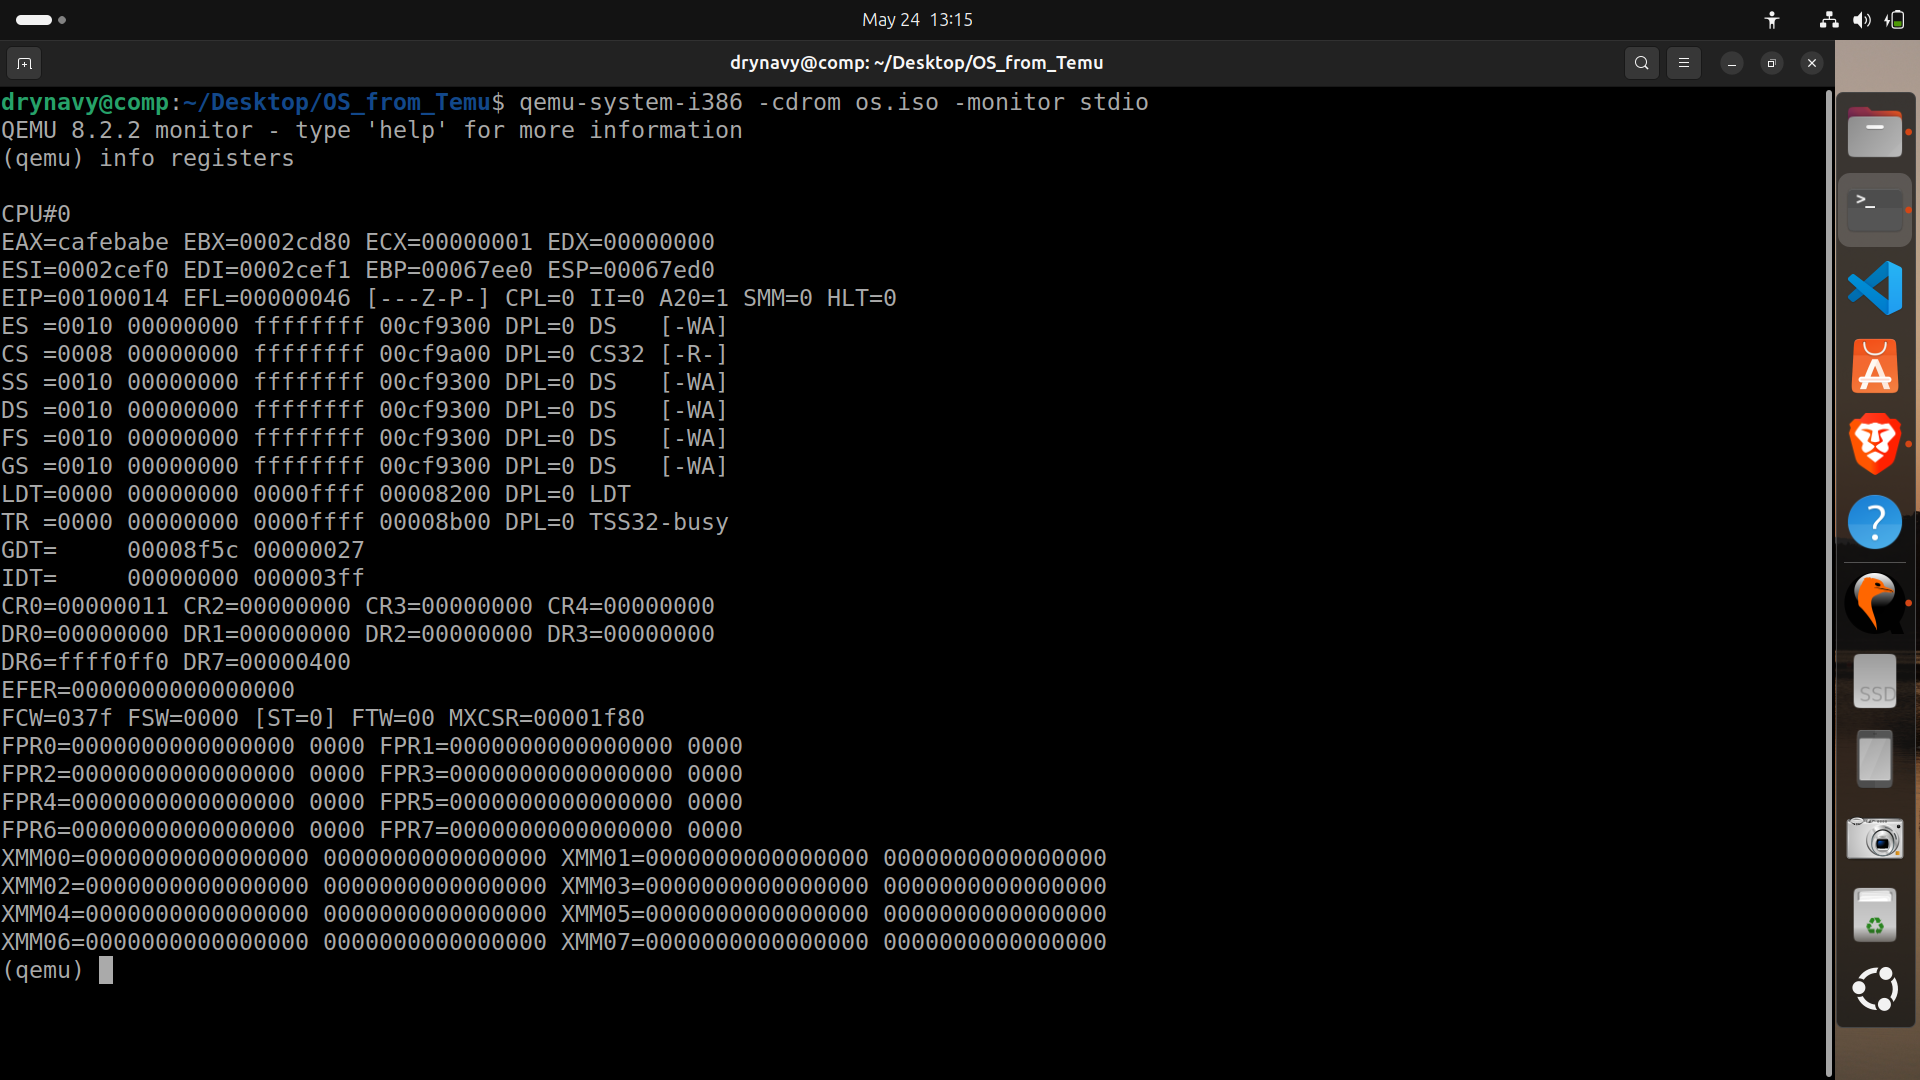
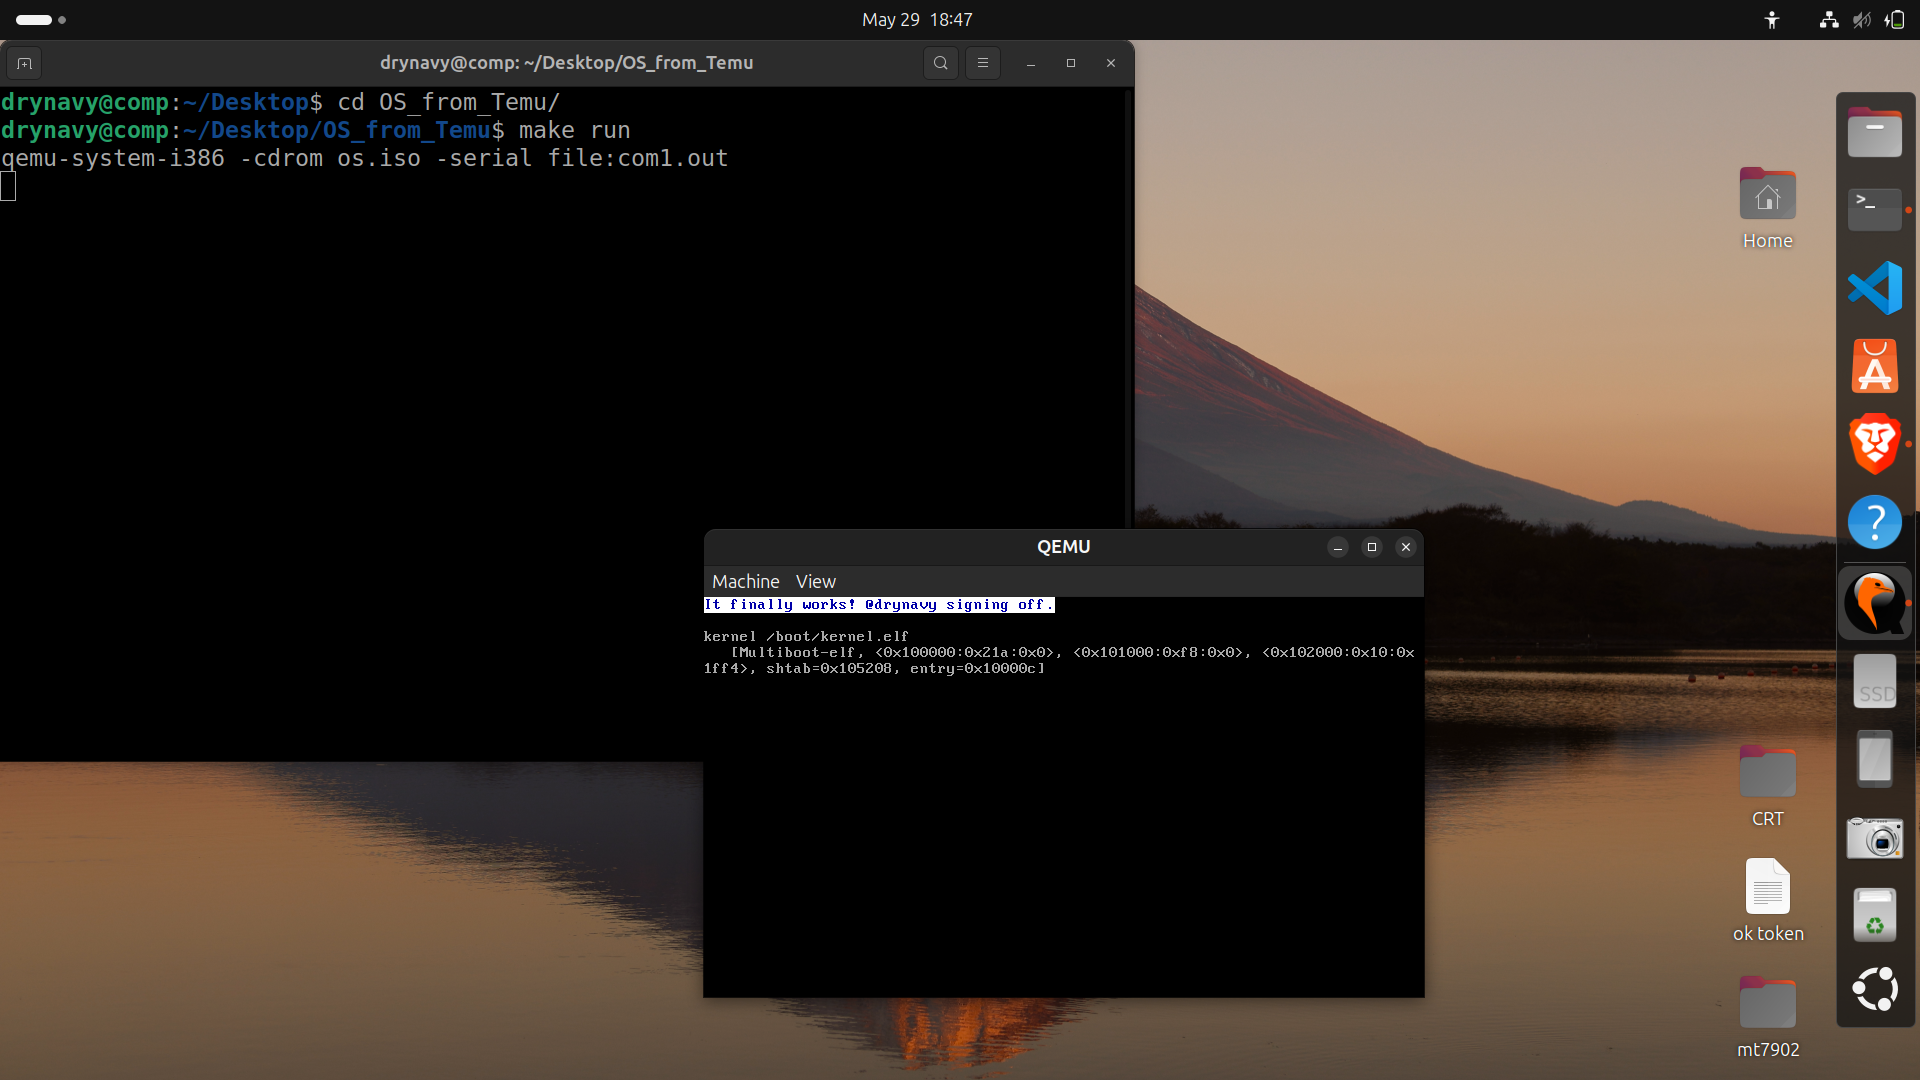
Add Readme and images

diff --git a/README.md b/README.md
@@ -1,10 +1,15 @@
-# Hello Cafebabe OS
+# DryNavy OS
 
-A minimal x86 operating system kernel built from scratch, following The Little Book About OS Development by Erik Helin and Adam Renberg.
+A minimal x86 operating system kernel built from scratch, following 
+The Little Book About OS Development by Erik Helin and Adam Renberg.
 
 ## What it does
 
-Boots via GRUB and writes 0xCAFEBABE to the EAX register, proving the entire toolchain and boot process works correctly.
+Boots via GRUB and displays text on screen using a custom framebuffer 
+driver written entirely from scratch. Hardware communication is done 
+manually through memory mapped I/O and I/O ports with no libraries or 
+shortcuts. Serial port logging is also set up to redirect kernel output 
+to a file for debugging.
 
 ![QEMU Booting](imgs/qemu.png)
 
@@ -13,6 +18,7 @@ Boots via GRUB and writes 0xCAFEBABE to the EAX register, proving the entire too
 ## Tools Required
 
 - NASM - assembler
+- GCC - C compiler
 - GNU LD - linker
 - genisoimage - ISO image creation
 - QEMU - x86 emulator
@@ -20,27 +26,19 @@ Boots via GRUB and writes 0xCAFEBABE to the EAX register, proving the entire too
 ## Build
 
 ```bash
-nasm -f elf32 loader.s -o loader.o
-ld -T link.ld -melf_i386 loader.o -o kernel.elf
-cp kernel.elf iso/boot/kernel.elf
-genisoimage -R -b boot/grub/stage2_eltorito -no-emul-boot \
-    -boot-load-size 4 -A os -input-charset utf8 -quiet \
-    -boot-info-table -o os.iso iso
+make
 ```
 
 ## Run
 
 ```bash
-qemu-system-i386 -cdrom os.iso -display gtk
+make run
 ```
 
-## Verify
+## Clean
 
 ```bash
-qemu-system-i386 -cdrom os.iso -monitor stdio
+make clean
 ```
-Then type `info registers` and check that EAX=CAFEBABE.
 
-## Reference
 
-The Little Book About OS Development - https://littleosbook.github.io
